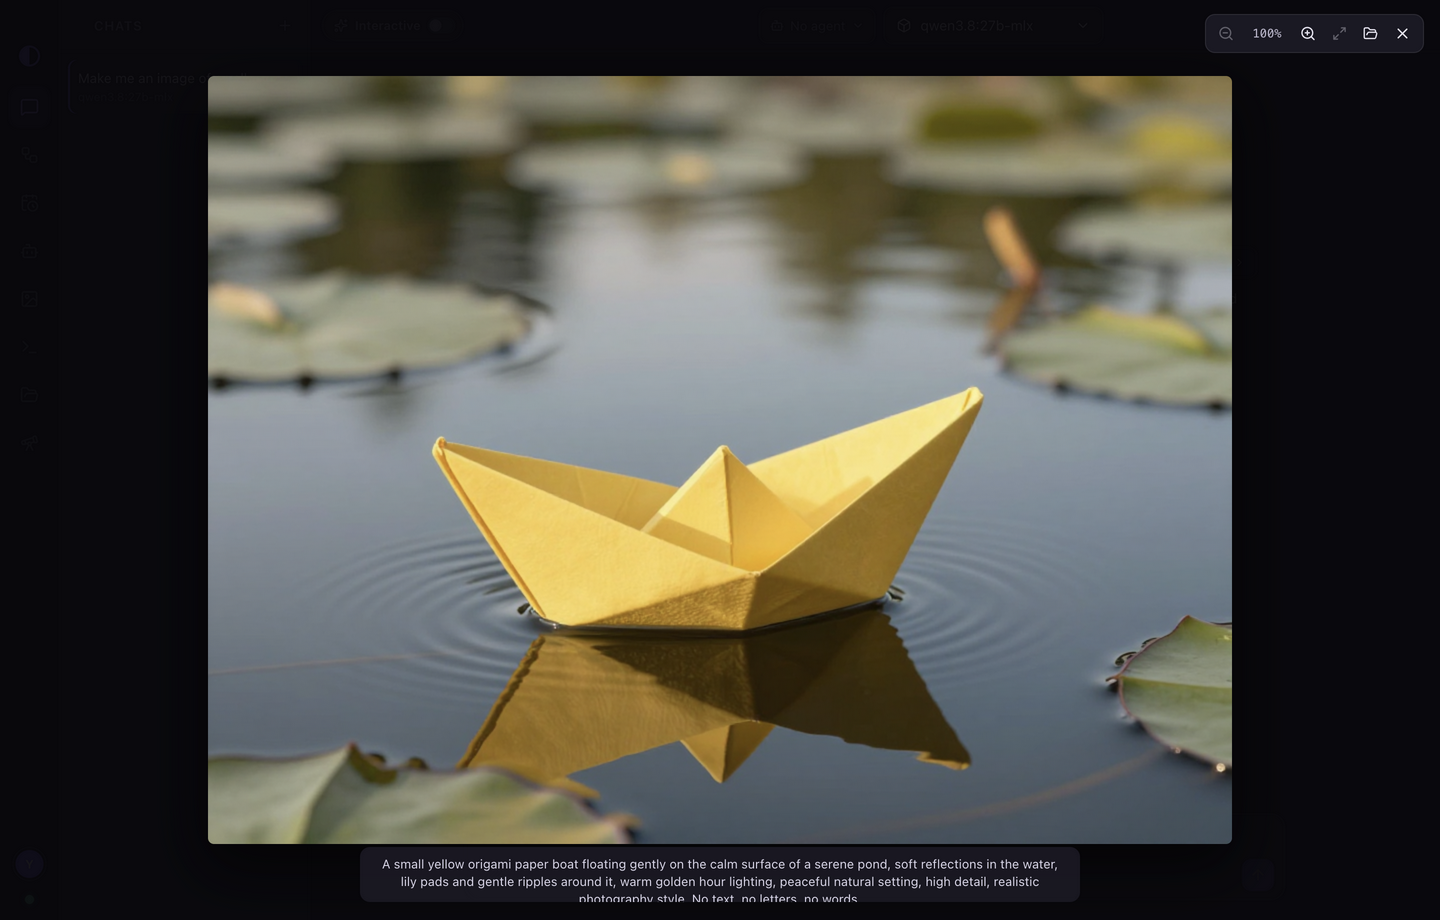
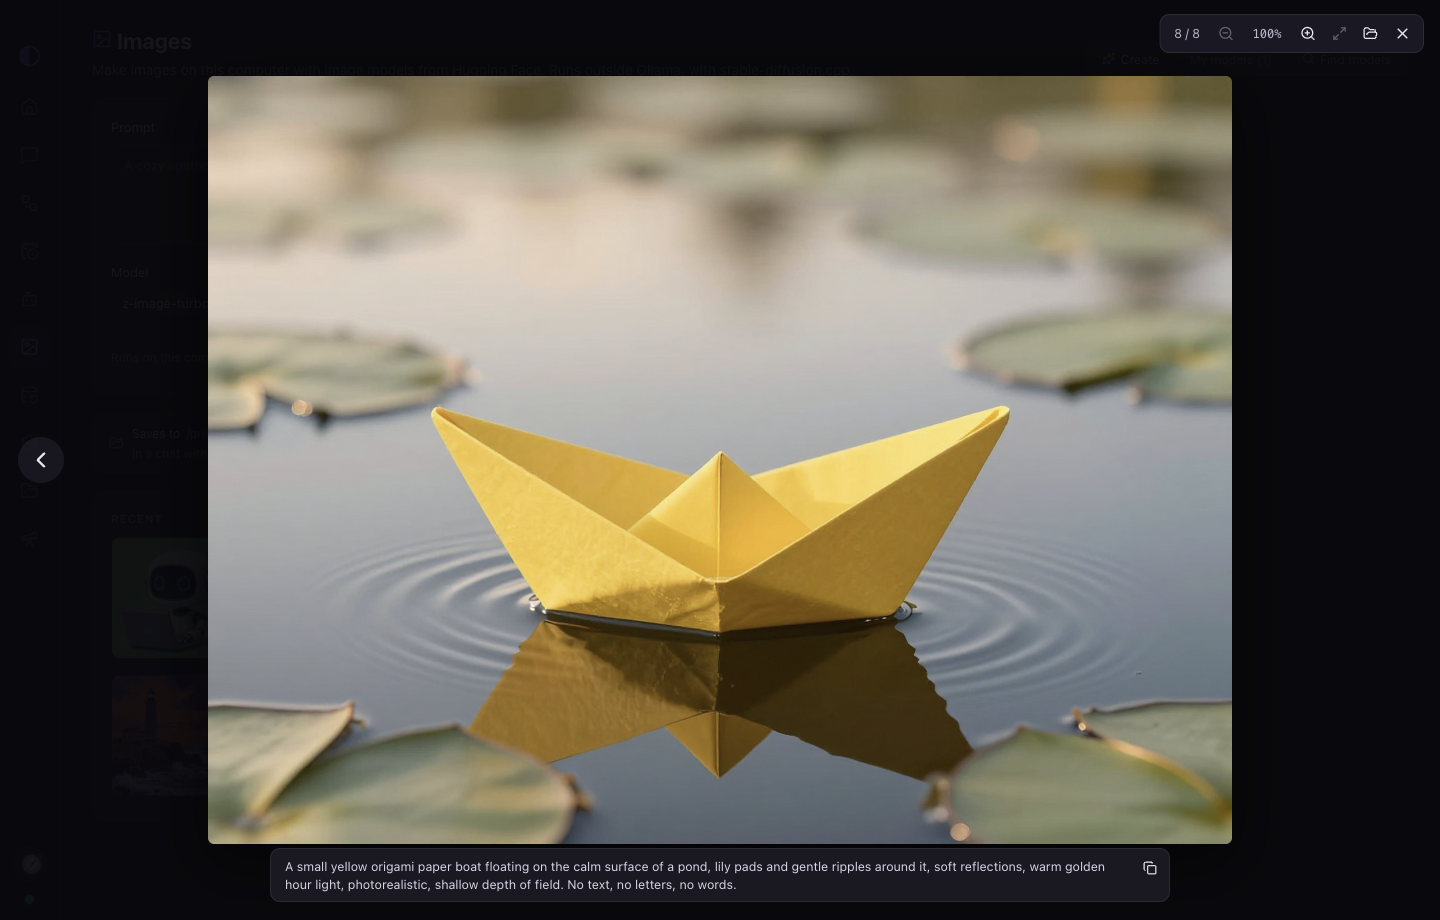
Penumbra 0.5.1: new screenshots and an updated guided demo
Every README screenshot is retaken with the current interface, plus new ones of Home, a summarized long chat, and an incremental backup.

diff --git a/README.md b/README.md
@@ -71,10 +71,14 @@
 
 | | |
 |---|---|
+| ![The Home dashboard](docs/screenshots/home.png) | ![A long chat with its older part summarized](docs/screenshots/long-chat.png) |
+| Home | A long chat, summarized to fit |
 | ![Agents as trading cards](docs/screenshots/agents.png) | ![An agent's purpose, persona, and avatar](docs/screenshots/agent-editor.png) |
 | Agents as trading cards | Purpose, persona, and avatar |
-| ![An orchestrator run with two agents](docs/screenshots/orchestrator.png) | ![A scheduled task with its run log](docs/screenshots/scheduler.png) |
-| An orchestrator run | A scheduled task and its run log |
+| ![A chat with an agent](docs/screenshots/agent-chat.png) | ![An orchestrator run with two agents](docs/screenshots/orchestrator.png) |
+| A chat with an agent | An orchestrator run |
+| ![A scheduled task with its run log](docs/screenshots/scheduler.png) | ![An incremental backup](docs/screenshots/backup.png) |
+| A scheduled task and its run log | An incremental backup |
 | ![Finding image models on Hugging Face](docs/screenshots/images.png) | ![An image in the zoomable viewer](docs/screenshots/lightbox.png) |
 | Finding image models | The image viewer |
 | ![A locked profile](docs/screenshots/profile-lock.png) | |

diff --git a/CHANGELOG.md b/CHANGELOG.md
@@ -1,8 +1,9 @@
 # Changelog
 
-## Unreleased
+## 0.5.1 (2026-11-03)
 
 ### Changed
+- **Screenshots.** All the README screenshots are new, with today's interface, and there are new ones of Home, a summarized long chat, and an incremental backup.
 - **Compact now** summarizes everything but the last few messages, so it makes room even in a chat that isn't long yet (before, it could say there was nothing to summarize).
 - **Guided demo.** It starts on Home, and a new "Long chats" section compacts a chat and shows a reply cut off at Max Tokens and then continued. The Backup and Scheduler steps mention incremental and scheduled backups. The tutorial mentions the context meter and Compact now.
 
